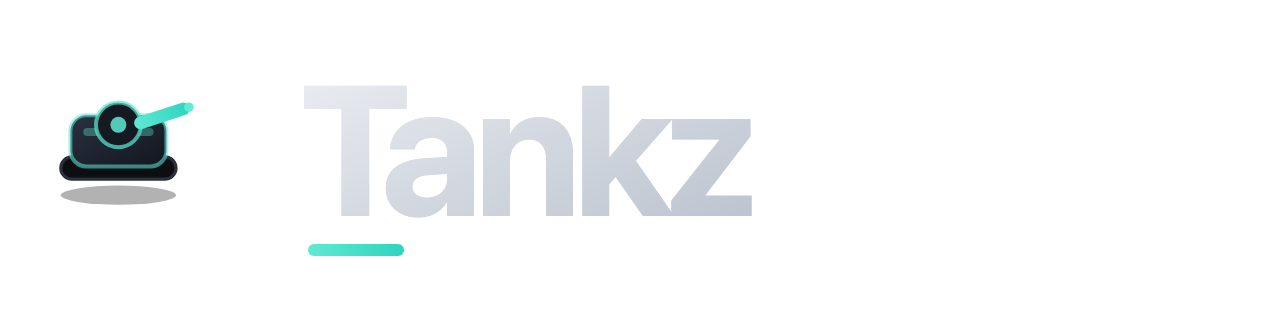
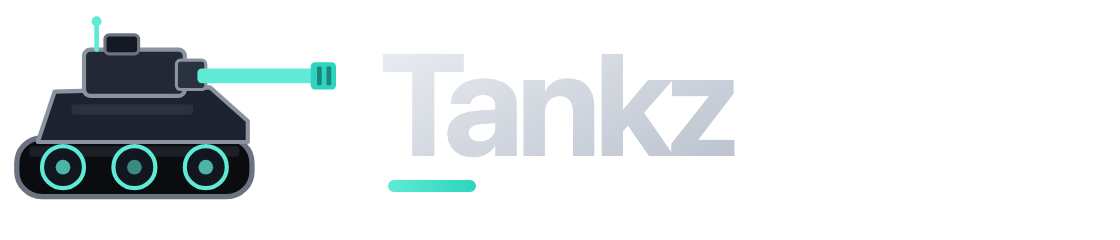
feat: clearer side-profile tank brand mark (v1.2.6)
Replace soft blob/button silhouette with a right-facing tank:
long teal barrel, box turret, thick tracks, three road wheels.
Regenerates icon, wordmark, app logo, favicon, and OG card.

Changed region(s): [[0.0, 0.0583, 0.6562, 0.8458], [0.3438, 0.7292, 0.4375, 0.8167]]

diff --git a/src/game/TankzGame.tsx b/src/game/TankzGame.tsx
@@ -1064,8 +1064,8 @@ function MenuContent({
             <img
               src="/brand/tankz-icon.svg"
               alt=""
-              width={72}
-              height={54}
+              width={98}
+              height={56}
               className="h-full w-auto shrink-0 object-contain object-left"
               aria-hidden="true"
             />

diff --git a/src/game/version.ts b/src/game/version.ts
@@ -1,5 +1,5 @@
 /** Game semver — bump patch (x.y.Z) on every player-facing ship */
-export const GAME_VERSION = "1.2.5";
+export const GAME_VERSION = "1.2.6";
 
 export const GAME_GITHUB_URL = "https://github.com/mnease/tankz";
 
